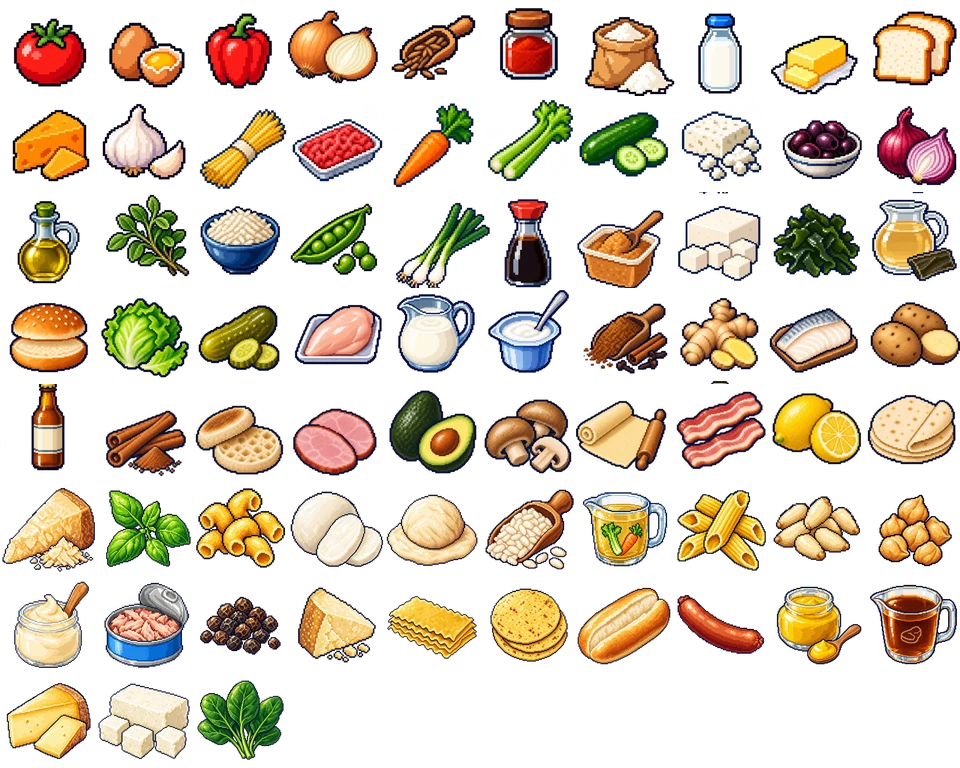
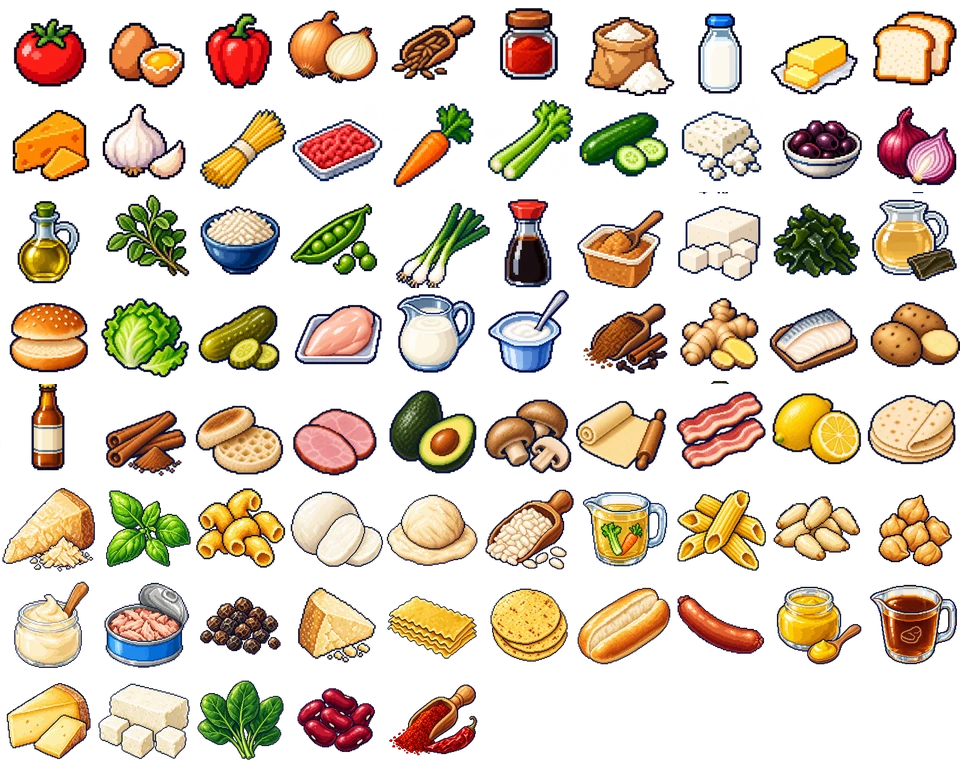
Complete chili con carne artwork set

Changed region(s): [[0.3125, 0.875, 0.5, 1.0]]

diff --git a/WORK_LOG.md b/WORK_LOG.md
@@ -6,9 +6,9 @@ Every AI must read this file before working and update it throughout the session
 
 - Current milestone: game/ is playable with Daily dish (US Eastern midnight, shared clue order, saved on device) and Endless (shuffled deck, excludes today's daily, not saved). Browser-verified in emulation; real-device keyboards untested.
 - Product: daily meal guessing plus endless mode. Approved desktop B split layout and mobile native-keyboard-aware layout.
-- Available: 45-meal roster, 33 meal illustrations, 73 of 103 canonical ingredient icons, 11 draft custom animation groups, mockups, prompts, visual prototypes and normalized asset map.
+- Available: 45-meal roster, 34 meal illustrations, 75 of 103 canonical ingredient icons, 11 draft custom animation groups, mockups, prompts, visual prototypes and normalized asset map.
 - Implemented: responsive game, daily/endless, daily persistence, alias suggestions, streaks, sound and lazy-loaded art. Test deploy live at https://meal-lion-playtest.netlify.app (2026-10-21, public, no password); final product decisions remain open. reference/meal-lion-demo/pilot.html remains a visual demo that exposes answers.
-- Repository/branch/checkpoint: codex/missing-food-art; latest existing checkpoint 6ab0ad1 before Palak paneer set, pushed to origin/main and origin/codex/missing-food-art. Remote: origin = https://github.com/EricTalanoa/meal-lion (private); main, feat/three-meal-game and codex/missing-food-art pushed 2026-10-19.
+- Repository/branch/checkpoint: codex/missing-food-art; latest existing checkpoint f8a43c8 before Chili con carne set, pushed to origin/main and origin/codex/missing-food-art. Remote: origin = https://github.com/EricTalanoa/meal-lion (private); main, feat/three-meal-game and codex/missing-food-art pushed 2026-10-19.
 - Asset automation: cloud task 6ad7bfe9c2408191b650b820afd8a386 was verified PAUSED on 2026-10-21; local heartbeat is PAUSED to prevent duplicates. 41 icons / 18 meals queued. Outputs require later local import. See docs/ASSET_AUTOMATION.md. Recurring queue/resume behavior remains untested.
 - Confirmed rules: ingredient-count guess budget, one free clue (zero optional), hidden total by default (showing totals is optional), with explicit 'all ingredients revealed' and 'last guess' cues; reveal order shuffled every round; skip policy approved; typo-tolerant suggestions. Open decisions: aliases, timezone/schedule, scoring and storage. See docs/PRODUCT.md.
 - Images: startup downloads kitchen, chef and one 261 KB sheet of all 66 ingredient icons (tools/build-icon-atlas.py), so clue icons no longer pop in; the rest loads on first use; published images are lossless WebP copies in assets/web/ (21.4 MB total). See the 2026-10-19 image-load entry.
@@ -338,3 +338,11 @@ Every AI must read this file before working and update it throughout the session
 - French onion soup checkpoint 6ab0ad1 successfully fast-forwarded main and pushed both branches. Palak set PNGs: all 1254x1254 RGBA with alpha 0-255 and solid bounds fully inside the canvas. Faint-edge/halo and browser/device review pending.
 - Visually inspected generated 240px French onion soup WebP thumbnail: complete bowl/handles, recognizable cheese toast and broth; this is file inspection, not browser QA.
 - Palak paneer set verification complete: optimizer refreshed 73-icon atlas and 33 small meal copies; all 79 tests pass, build 109 files / 47.4 MB. Visually inspected 240px palak thumbnail: whole bowl, six readable cubes. No browser/device or final halo QA. User requested more asset work; next Kidney beans, Chili powder, Chili con carne.
+
+### 2026-10-22 America/Los_Angeles — Codex — Chili con carne set
+- Palak checkpoint f8a43c8 committed, push in progress. User requests continued asset work. Starting Kidney beans, Chili powder, Chili con carne (31). Preserve existing assets, use built-in image generation and save exact prompts. Verify and push completed set as authorized.
+
+- Palak paneer checkpoint f8a43c8 successfully fast-forwarded main and pushed both branches. Kidney beans source generated and saved; recognizable burgundy beans, full grouping visible. Prompt asks seven, image has six visible beans; exact count is not gameplay data, accepted as draft.
+- Chili powder source generated and saved; scoop, powder and dried chili visible with no text. Both ingredient drafts await integration with finished meal.
+- Chili con carne result generated and saved, full bowl with generous margins. All three assets mapped; exact prompts saved. Coverage 34/45 meals and 75/103 ingredients. Running optimization and derived-sheet pipeline before tests.
+- Chili set verified: all three 1254x1254 RGBA sources have alpha 0-255 and solid bounds inside canvas. Lossless copies verified; 75-icon sheet and 34 meal thumbnails refreshed. Small chili thumbnail visually inspected: readable beans and beef, complete bowl. All 79 tests pass; build 113 files / 49.2 MB. Browser/device and final faint-edge QA untested; no deployment. Next remaining 11 meals / 28 icons, prioritize Chicken stock/Puff pastry/Chicken pot pie or Basmati rice/Saffron/Chicken biryani.

diff --git a/docs/ASSETS.md b/docs/ASSETS.md
@@ -2,7 +2,7 @@
 
 All source artwork and generation prompts are in reference/. Do not overwrite originals during cleanup. See assets/asset-map.json for a consistent map; older batch manifests use different structures. Cell indexes are zero-based row-major, with paths relative to this package root. Ingredient entries marked preferred are the suggested default; the old purple Onion icon is retained as a variant, while the yellow Onion is preferred and Red onion remains its own label.
 
-There are 33/45 meal illustrations, 73/103 canonical ingredient icons and 11 custom sequence groups. Chef neutral/blink/thinking/celebrate poses are separate. An animation group means a draft strip of distinct key poses, not a finished smooth animation. Pancake and grilled-cheese sequences share a 3-by-2 atlas. The other interactions are onion, tomato, egg, milk, cheese, dough, mushroom, rice and garlic. Existing demos add procedural steam, particles and ingredient movement.
+There are 34/45 meal illustrations, 75/103 canonical ingredient icons and 11 custom sequence groups. Chef neutral/blink/thinking/celebrate poses are separate. An animation group means a draft strip of distinct key poses, not a finished smooth animation. Pancake and grilled-cheese sequences share a 3-by-2 atlas. The other interactions are onion, tomato, egg, milk, cheese, dough, mushroom, rice and garlic. Existing demos add procedural steam, particles and ingredient movement.
 
 Recommended interaction routing: Onion -> onion; Tomato -> tomato; Egg -> egg; Milk -> milk; Cheddar -> cheese; Pizza dough -> dough; Mushroom -> mushroom; Rice or Arborio rice -> rice; Garlic -> garlic. These are integration suggestions; most newer sequences are not wired into the pilot. Use neutral/general reactions for missing interactions until dedicated ones exist. A cheddar-colored animation is not automatically suitable for every cheese.
 

diff --git a/assets/COVERAGE.md b/assets/COVERAGE.md
@@ -1,6 +1,6 @@
 # Artwork coverage
 
-33/45 meal illustrations; 73/103 canonical ingredient icons; 11 custom animation groups. All draft.
+34/45 meal illustrations; 75/103 canonical ingredient icons; 11 custom animation groups. All draft.
 
 | ID | Meal | Meal art | Missing ingredient icons |
 |---|---|---|---|
@@ -34,7 +34,7 @@
 | 28 | Egg fried rice | Available | None |
 | 29 | Chicken biryani | Missing | Basmati rice, Saffron |
 | 30 | Chicken paella | Missing | Short-grain rice, Green beans, Saffron, Chicken stock |
-| 31 | Chili con carne | Missing | Kidney beans, Chili powder |
+| 31 | Chili con carne | Available | None |
 | 32 | Cottage pie | Available | None |
 | 33 | Chicken pot pie | Missing | Puff pastry, Chicken stock |
 | 34 | French onion soup | Available | None |
